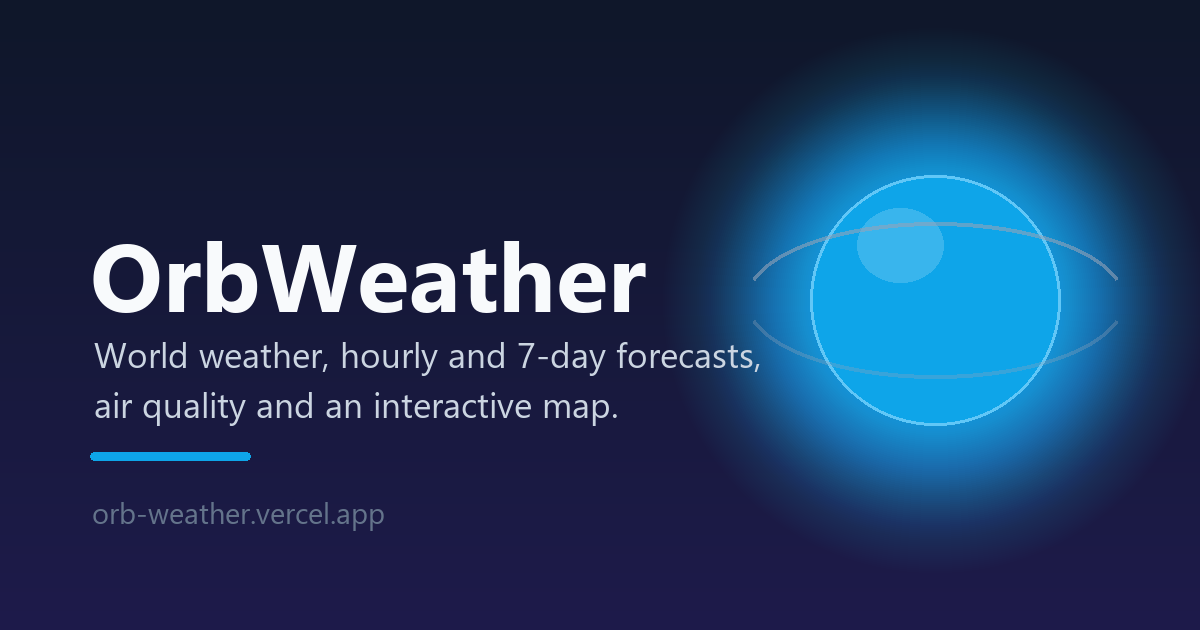
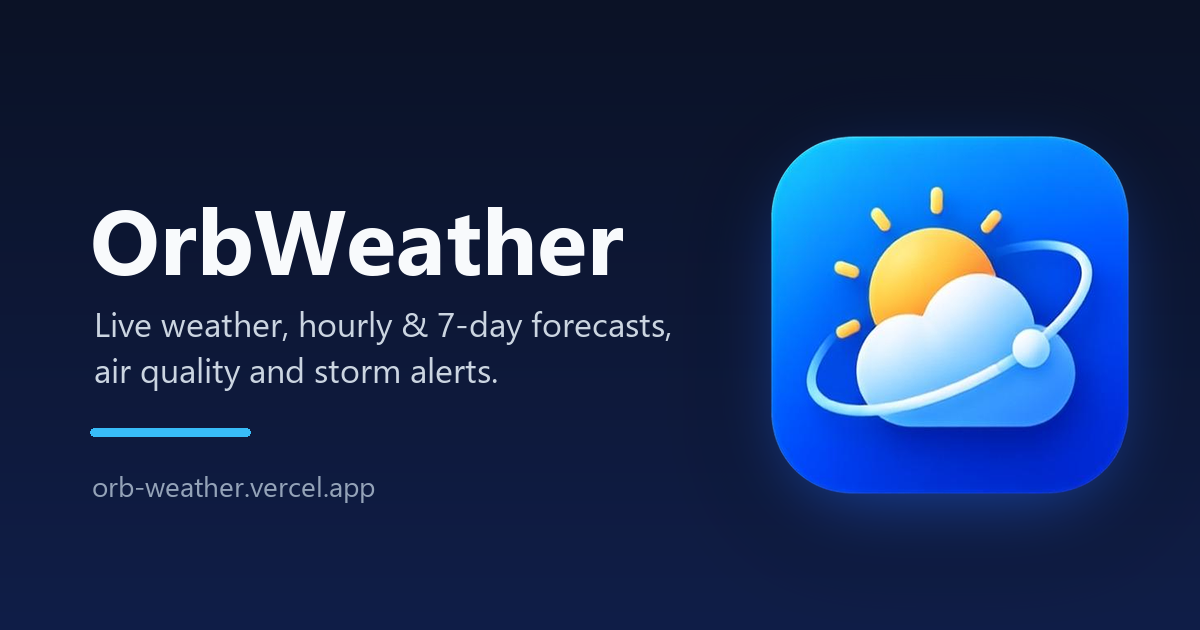
Tidy up: move API clients to src/services, fix contrast, drop dead CSS
- Rename src/api to src/services so it is not confused with the root api/
  folder holding the serverless alert functions
- Load web fonts from index.html with preconnect instead of a CSS @import, so
  they download in parallel with the app rather than after the stylesheet
- Add darker --accent-blue-text / --accent-emerald-text tokens and use them
  wherever a brand colour is small text: the hero condition, "Save Current"
  and the "Saved" badge all failed WCAG AA at 2.5-2.8:1 and now pass at 5.5-6:1
- Make the hourly strips focusable and labelled so they can be scrolled by keyboard
- Remove dead code: an unused sidebar unit-toggle ruleset, .version-text,
  .hidden, and the unused --accent-cyan and --glass tokens; stop exporting
  WMO, navigate and ToastContextType, which nothing outside their modules used
- Update README, REQUIREMENTS and the FAQ/About copy for push alerts, and
  declare the real Node requirement (>=20.19, for Vite 8)
- Regenerate the social card with the new app icon
- Add a GitHub Actions workflow running lint, tests and a full build

Changed region(s): [[0.0617, 0.0905, 0.9867, 0.8444]]

diff --git a/src/index.css b/src/index.css
@@ -1,24 +1,24 @@
-@import url('https://fonts.googleapis.com/css2?family=Outfit:wght@300;400;500;600;700;800&family=JetBrains+Mono:wght@400;500;600&display=swap');
-
 :root {
   --bg-primary: #f1f5f9;
   --bg-secondary: #ffffff;
   --bg-card: rgba(255, 255, 255, 0.85);
   --bg-card-hover: rgba(255, 255, 255, 1);
-  --glass: rgba(255, 255, 255, 0.7);
   --glass-border: rgba(15, 23, 42, 0.06);
   --glass-border-hover: rgba(15, 23, 42, 0.12);
 
   --accent-violet: #6366f1;
   --accent-blue: #0ea5e9;
-  --accent-cyan: #06b6d4;
   --accent-emerald: #10b981;
   --accent-amber: #f59e0b;
   --accent-rose: #ef4444;
+  /* Darker shades for small text, where the brand colours above fall below
+     WCAG AA contrast. Icons and large text keep the brand colours. */
+  --accent-blue-text: #0369a1;
+  --accent-emerald-text: #047857;
 
   --text-primary: #0f172a;
   --text-secondary: #475569;
-  --text-muted: #64748b;
+  --text-muted: #5d6d83;
 
   --sidebar-width: 280px;
   --radius-sm: 10px;
@@ -52,7 +52,6 @@ a { color: var(--accent-blue); text-decoration: none; }
 a:hover { text-decoration: underline; }
 button { cursor: pointer; border: none; background: none; font-family: var(--font-primary); }
 input { font-family: var(--font-primary); }
-.hidden { display: none !important; }
 
 /* Visible only to screen readers, until focused (the skip link). */
 .visually-hidden {
@@ -125,12 +124,13 @@ input { font-family: var(--font-primary); }
   --bg-secondary: #1e293b;
   --bg-card: rgba(30, 41, 59, 0.85);
   --bg-card-hover: rgba(30, 41, 59, 1);
-  --glass: rgba(15, 23, 42, 0.7);
   --glass-border: rgba(255, 255, 255, 0.06);
   --glass-border-hover: rgba(255, 255, 255, 0.12);
   --text-primary: #f8fafc;
   --text-secondary: #cbd5e1;
-  --text-muted: #64748b;
+  --text-muted: #8492a6;
+  --accent-blue-text: #38bdf8;
+  --accent-emerald-text: #34d399;
   --shadow-glass: 0 4px 20px rgba(0, 0, 0, 0.3), inset 0 1px 0 rgba(255,255,255,0.05);
   --shadow-card: 0 4px 16px rgba(0, 0, 0, 0.2);
 }

diff --git a/src/components/Forecast.tsx b/src/components/Forecast.tsx
@@ -1,7 +1,7 @@
 import React, { useState } from 'react';
 import { Clock, CalendarDays, Droplets } from 'lucide-react';
 import type { WeatherData } from '../types';
-import { getWMO } from '../api/weather';
+import { getWMO } from '../services/weather';
 import { getWeatherIcon } from '../utils/iconMap';
 import { cityNow } from '../utils/time';
 import { formatDay, formatHour, isDaylightAt } from '../utils/forecast';
@@ -53,7 +53,8 @@ export function Forecast({ weather, timeFormat }: ForecastProps) {
           <Clock size={16} />
           <span>24-Hour Forecast</span>
         </h2>
-        <div className="hourly-scroll">
+        {/* Focusable so keyboard users can scroll it with the arrow keys. */}
+        <div className="hourly-scroll" tabIndex={0} role="region" aria-label="Hourly forecast for the next 24 hours">
           {hourlyData.map((h, idx) => {
             const Icon = getWeatherIcon(h.code, isDaylightAt(h.time, daily));
             return (
@@ -124,7 +125,13 @@ export function Forecast({ weather, timeFormat }: ForecastProps) {
                 {/* Expanded Hourly view for this day */}
                 {selectedDayIndex === idx && (
                   <div className="weekly-expanded-hourly animate-fade-up">
-                    <div className="hourly-scroll" style={{ background: 'rgba(0,0,0,0.1)', borderRadius: '12px', padding: '12px' }}>
+                    <div
+                      className="hourly-scroll"
+                      tabIndex={0}
+                      role="region"
+                      aria-label={`Hourly forecast for ${d.isToday ? 'today' : formatDay(d.time)}`}
+                      style={{ background: 'rgba(0,0,0,0.1)', borderRadius: '12px', padding: '12px' }}
+                    >
                       {/* Match on the day itself rather than assuming a fixed
                           24-hour stride into the hourly series. */}
                       {weather.hourly.time.reduce<number[]>((acc, t, i) => {

diff --git a/src/components/views/Faq.tsx b/src/components/views/Faq.tsx
@@ -39,7 +39,7 @@ export function Faq() {
         
         <FaqItem 
           question="Are my saved cities private?" 
-          answer="Absolutely. Your saved cities, application settings, and preferences are stored entirely locally on your own device using browser localStorage. We do not track, upload, or store your data on any external servers."
+          answer={<>Yes. Your saved cities, settings, and preferences are stored only on your own device, and we never track you. The single exception is weather alerts, which are off unless you turn them on: to reach your device while the app is closed, they store the city you chose and an anonymous notification address on our server. Turning alerts off deletes that record. See the <a href="/privacy">Privacy Policy</a> for details.</>}
         />
 
         <FaqItem 
@@ -53,8 +53,8 @@ export function Faq() {
         />
 
         <FaqItem 
-          question="What do the desktop notifications do?" 
-          answer="If you enable desktop notifications in the Settings menu, OrbWeather will automatically check for severe weather conditions (like thunderstorms, heavy hail, or snow) in your currently selected city, and push a native alert to your computer screen to keep you informed."
+          question="How do weather alerts work?"
+          answer={<>Turn them on in <strong>Settings → Weather Alerts</strong>. Every 15 minutes OrbWeather checks the forecast for your chosen city and sends a notification to your phone or computer — even when the app is closed — if a thunderstorm, heavy rain or snow, or rain is on its way within two hours. You get at most one alert of each kind every six hours. On iPhone and iPad, add OrbWeather to your Home Screen first; that is Apple’s requirement for web notifications.</>}
         />
 
       </div>

diff --git a/src/components/Sidebar.css b/src/components/Sidebar.css
@@ -99,36 +99,6 @@
 .suggestion-name { font-size: 0.88rem; color: var(--text-primary); font-weight: 500; }
 .suggestion-country { font-size: 0.75rem; color: var(--text-muted); }
 
-.unit-toggle-container {
-  display: flex;
-  align-items: center;
-  justify-content: space-between;
-  padding: 0 4px;
-}
-.unit-label { font-size: 0.8rem; color: var(--text-muted); font-weight: 600; text-transform: uppercase; letter-spacing: 0.05em; }
-.unit-toggle {
-  display: flex;
-  background: var(--bg-primary);
-  border-radius: 10px;
-  padding: 3px;
-  gap: 2px;
-  border: 1px solid var(--glass-border);
-}
-.unit-btn {
-  padding: 5px 14px;
-  border-radius: 8px;
-  font-size: 0.8rem;
-  font-weight: 600;
-  color: var(--text-muted);
-  transition: var(--transition);
-  font-family: var(--font-mono);
-}
-.unit-btn.active {
-  background: var(--bg-secondary);
-  color: var(--accent-blue);
-  box-shadow: 0 2px 4px rgba(0,0,0,0.05);
-}
-
 .saved-section {
   display: flex;
   flex-direction: column;
@@ -169,7 +139,7 @@
   padding: 0 4px;
 }
 .add-city-btn {
-  color: var(--accent-blue);
+  color: var(--accent-blue-text);
   font-size: 0.75rem;
   font-weight: 600;
   padding: 4px 8px;
@@ -180,7 +150,7 @@
 .add-city-btn:hover { background: rgba(14, 165, 233, 0.2); }
 .saved-badge {
   display: flex; align-items: center; gap: 4px;
-  color: var(--accent-emerald); font-size: 0.75rem; font-weight: 600;
+  color: var(--accent-emerald-text); font-size: 0.75rem; font-weight: 600;
 }
 
 .empty-text { font-size: 0.8rem; color: var(--text-muted); padding: 0 4px; }

diff --git a/index.html b/index.html
@@ -28,6 +28,11 @@
     <meta name="apple-mobile-web-app-capable" content="yes" />
     <meta name="apple-mobile-web-app-title" content="OrbWeather" />
 
+    <!-- Fonts load in parallel with the app rather than after the stylesheet. -->
+    <link rel="preconnect" href="https://fonts.googleapis.com" />
+    <link rel="preconnect" href="https://fonts.gstatic.com" crossorigin />
+    <link rel="stylesheet" href="https://fonts.googleapis.com/css2?family=Outfit:wght@300;400;500;600;700;800&family=JetBrains+Mono:wght@400;500;600&display=swap" />
+
     <!-- Warm up the data origins before the app asks for them. -->
     <link rel="preconnect" href="https://api.open-meteo.com" crossorigin />
     <link rel="preconnect" href="https://geocoding-api.open-meteo.com" crossorigin />
@@ -65,6 +70,7 @@
         "@type": "WebApplication",
         "name": "OrbWeather",
         "url": "https://orb-weather.vercel.app/",
+        "image": "https://orb-weather.vercel.app/og-image.png",
         "description": "Real-time weather dashboard with hourly and 7-day forecasts, air quality, UV index, astronomical data and an interactive world weather map.",
         "applicationCategory": "WeatherApplication",
         "operatingSystem": "Any",

diff --git a/src/components/views/About.tsx b/src/components/views/About.tsx
@@ -15,7 +15,7 @@ export function About() {
           <li><strong>Interactive Global Map:</strong> Explore the globe and instantly pull weather data from any location by simply clicking on the map.</li>
           <li><strong>Air Quality Analysis:</strong> Deep tracking of localized air pollutants (PM2.5, PM10, Ozone, and Nitrogen Dioxide) to keep you safe.</li>
           <li><strong>Astronomical Data:</strong> Live tracking of the sun's position, daylight duration, exact UV indexes, and current moon phases.</li>
-          <li><strong>Smart Notifications:</strong> Opt-in desktop alerts that warn you of severe weather conditions in your active city.</li>
+          <li><strong>Weather Alerts:</strong> Opt-in notifications on your phone or computer — even when the app is closed — for storms, heavy rain or snow, and rain on its way.</li>
         </ul>
 
         <p>How does it work? OrbWeather continuously streams raw meteorological data from Open-Meteo's advanced weather models. When you search or use your current location, it utilizes reverse-geocoding technology to instantly map your precise GPS coordinates into accurate local forecasts.</p>

diff --git a/src/App.tsx b/src/App.tsx
@@ -13,8 +13,8 @@ import { LandingPage } from './components/views/LandingPage';
 import { LocationPromptModal } from './components/LocationPromptModal';
 import { UvMoonCard } from './components/UvMoonCard';
 import { SunArc } from './components/SunArc';
-import { fetchWeather, isAbortError } from './api/weather';
-import { reverseGeocode } from './api/geocoding';
+import { fetchWeather, isAbortError } from './services/weather';
+import { reverseGeocode } from './services/geocoding';
 import { useToast } from './contexts/toast-context';
 import { useRoute, applyRouteMeta } from './hooks/useRoute';
 import { STORAGE_KEYS, readEnum, readBoolean, readCity, readCityList, write } from './utils/storage';

diff --git a/src/components/HeroCard.css b/src/components/HeroCard.css
@@ -84,7 +84,8 @@
 .weather-desc {
   font-size: 1.1rem;
   font-weight: 600;
-  color: var(--accent-blue);
+  /* 1.1rem is below the large-text threshold, so it needs the darker token. */
+  color: var(--accent-blue-text);
   text-transform: capitalize;
 }
 
@@ -130,7 +131,7 @@
 @media (max-width: 768px) {
   /* The desktop min-height leaves a large dead band above the city name once
      the layout stacks, so let the card size to its content instead. */
-  .hero-card { min-height: 0; }
+  .hero-section { min-height: 0; }
   .hero-content {
     flex-direction: column-reverse;
     align-items: flex-start;

diff --git a/src/components/Sidebar.tsx b/src/components/Sidebar.tsx
@@ -1,7 +1,7 @@
 import type { CityMeta } from '../types';
 import type { ViewId } from '../routes';
-import { fetchSuggestions } from '../api/geocoding';
-import { isAbortError } from '../api/weather';
+import { fetchSuggestions } from '../services/geocoding';
+import { isAbortError } from '../services/weather';
 import { useState, useEffect, useRef } from 'react';
 import type { KeyboardEvent } from 'react';
 import { Search, MapPin, CloudRain, Check, Settings, HelpCircle, Info, Map, X } from 'lucide-react';

diff --git a/src/services/weather.ts b/src/services/weather.ts
@@ -53,7 +53,7 @@ export async function fetchWeather(
 }
 
 // ─── WMO Weather Code → { label, bg } ────────────────────
-export const WMO: Record<number, { label: string; bg: string }> = {
+const WMO: Record<number, { label: string; bg: string }> = {
   0: { label: 'Clear Sky', bg: 'clear' },
   1: { label: 'Mainly Clear', bg: 'clear' },
   2: { label: 'Partly Cloudy', bg: 'clouds' },

diff --git a/src/hooks/useRoute.ts b/src/hooks/useRoute.ts
@@ -24,7 +24,7 @@ const getSnapshot = () => window.location.pathname;
 // snapshot is the route being rendered, which the build passes via the URL.
 const getServerSnapshot = () => '/';
 
-export function navigate(path: string) {
+function navigate(path: string) {
   if (window.location.pathname === path) return;
   window.history.pushState({}, '', path);
   listeners.forEach(fn => fn());

diff --git a/src/components/WorldCities.tsx b/src/components/WorldCities.tsx
@@ -1,7 +1,7 @@
 import { useEffect, useState } from 'react';
 import { Globe2 } from 'lucide-react';
 import type { CityMeta, WeatherData } from '../types';
-import { fetchWeather, getWMO } from '../api/weather';
+import { fetchWeather, getWMO } from '../services/weather';
 import { getWeatherIcon } from '../utils/iconMap';
 import './WorldCities.css';
 
